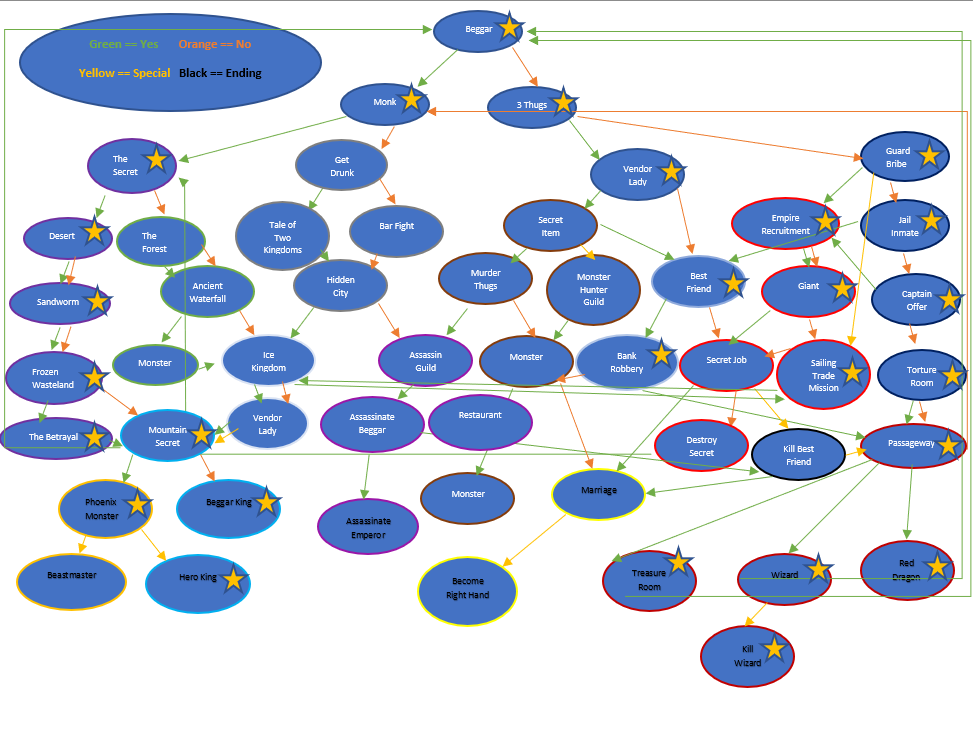
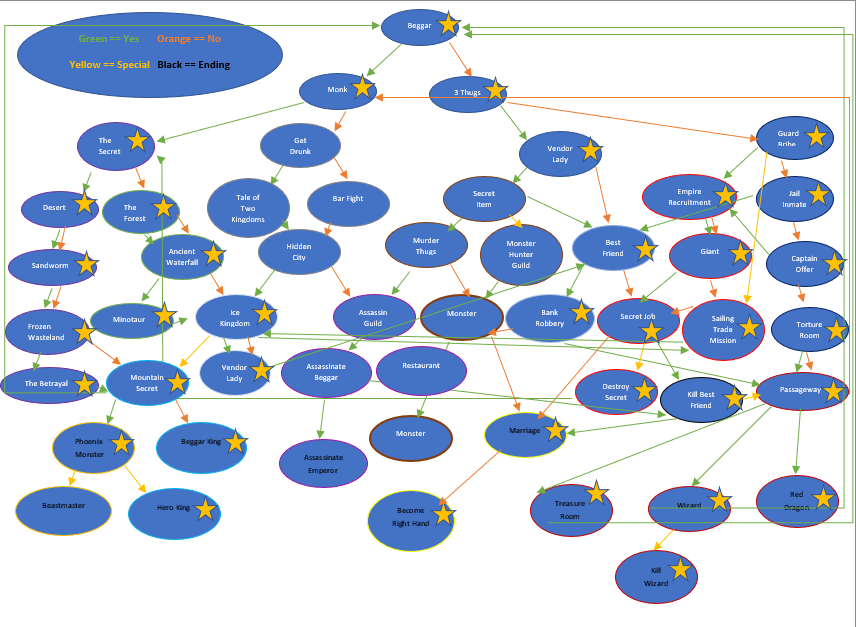
Added additional story scenarios

diff --git a/main.py b/main.py
@@ -110,6 +110,7 @@ def adventure_game():
         boxer = Monster('Boxer', 150, 60, 150)
         leviathan = Monster('Leviathan', 999, 99, 200)
         phoenix = Monster('Phoenix', 350, 90, 200)
+        minotaur = Monster('Minotaur', 150, 50, 85)
         
         # Function that 1. Checks if the monster has died, 2. Checks if person has died and then restarts/exits game
         def check_health(person):
@@ -540,10 +541,156 @@ jgs .-=-.    ) -.
                     input(
                         f'{bulletpoint2}The number you entered is not a valid item in the vendor\'s inventory. Please try again.')
                     show_vendor_menu()
+            #Ice Kingdom
+            def ice_kingdom():
+                input(f'{bulletpoint2}\nAfter many days of travel, you finally arrive at the gates of the ice kingdom.\nThe guard stops you and asks for your license to pass. Since you don\'t have one, the guard says she can let you through if you answer her riddle correctly...\n')
+                # List of riddles
+                riddles = [
+                    "\nI'm cold and white, and I'm found in the sky. I'm used for sports, and I'm thrown in the air. What am I?",
+                    "\nI'm cold and hard, and I sparkle and shine. I'm used to make ice, and I taste like wine. What am I?",
+                    "\nI'm cold and slippery, and I slide on the ground. I'm used for fun, and I make a funny sound. What am I?",
+                    "\nI'm cold and wet, and I come from a tap. I'm used to clean, and I'm good for a nap. What am I?",
+                    "\nI'm cold and frozen, and I hang from the sky. I'm used for drinks, and I make them cold and dry. What am I?",
+                    "\nI'm cold and frozen, and I'm found in a cave. I'm used for drinks, and I'm smooth on the tongue. What am I?",
+                    "\nI'm cold and crisp, and I'm good with a beer. I'm used to snack, and I'm salty and clear. What am I?",
+                    "\nI'm cold and strong, and I keep you safe at night. I'm used for defense, and I'm made of metal and light. What am I?",
+                    "\nI'm cold and soft, and I'm found on your head. I'm used for warmth, and I'm made of fur and thread. What am I?",
+                    "\nI'm cold and clear, and I'm frozen in time. I'm used for art, and I make things shine. What am I?"
+                ]
+
+                # List of answers
+                answers = [
+                    "Snowball",
+                    "Salt",
+                    "Sled",
+                    "Water",
+                    "Ice Cubes",
+                    "Ice Cream",
+                    "Pretzel",
+                    "Shield",
+                    "Hat",
+                    "Ice Sculpture"
+                ]
+
+                # Function to ask a random riddle and check the answer
+                def askRiddle():
+                    # Select a random riddle
+                    index = random.randint(0, len(riddles) - 1)
+                    riddle = riddles[index]
+                    answer = answers[index]
+
+                    # Ask the riddle and get the user's answer
+                    user_answer = input(f'{bulletpoint}Type "help" for a list of potential answers\n{riddle}\nWhat is your answer: ')
+
+                    # Check if the user's answer is correct
+                    if user_answer.lower() == answer.lower():
+                        print(f'{bulletpoint2}Correct! You may pass!')
+                        pass
+                    elif user_answer.lower() == 'help':
+                        print(f'{bulletpoint2}Potential Answers:')
+                        for i in answers:
+                            print(i)
+                        askRiddle()
+                    else:
+                        print(
+                            f'{bulletpoint2}Incorrect, you may not pass until you answer a riddle correctly.')
+                        askRiddle()
+                askRiddle()
+                input(f'\n{bulletpoint2}The ice kingdom is a breathtaking sight. The city is built of shining white marble and crystal, and it glows with a soft, ethereal light. The streets are filled with people of all shapes and sizes, all dressed in beautiful and colorful clothes.\nAs you walk through the city, you are amazed by the sights and sounds around you. You see snow-white horses pulling elegant carriages, and you hear the soothing melodies of harps and flutes. You feel a sense of peace and tranquility that you have never experienced before.\nYou decide to explore the city further and discover its hidden secrets. You visit the palace of the queen, who greets you with kindness and generosity. You learn about the history and culture of the ice kingdom, and you marvel at the wonders of its magical technology.')
+                go_sailing = input(f'\n{bulletpoint}You see an opportunity to hike a ride on a ship sailing over to the Red Dragon Empire, do you go?')
+                if go_sailing.strip().lower() in yes:
+                    menu()
+                    trade_mission()
+                else:
+                    pass
+                # Only accesses the vendor lady scenario if it's been turned on.
+                if vendor_lady_object == 1:
+                    vendor_lady()
+                else:
+                    input(f'\n{bulletpoint2}As you stand in the Ice Kingdom, you gaze upon the majestic high mountain next to it. The mountain is covered in snow and ice, and it towers above the surrounding landscape.\nYou feel a sudden urge to climb to the highest peak of the mountain. You have never done anything like this before, but you are excited by the challenge and the thrill of the climb.\nYou gather your gear and supplies, and you set off on your journey. You trudge through the snow, making your way up the mountain. The air is cold and thin, and you feel the strain on your body as you climb higher and higher.\nAs you reach the higher elevations, you encounter treacherous ice and snow. You must use your climbing skills and your determination to overcome these obstacles.\nFinally, after many hours of grueling climb, you reach the summit of the mountain. You are exhausted and exhilarated at the same time. You look out at the stunning view from the top of the mountain, and you feel a sense of accomplishment and pride.')
+                    mountain_secret()
+
+            # The Forest
+            def the_forest():
+                forest_ans = input(f'{bulletpoint}\nAs you travel through the mysterious forest, you are struck by its beauty and serenity. The trees are tall and majestic, and the air is fresh and clean. You feel a sense of peace and calm as you walk along the forest path.\nBut you also feel a sense of curiosity and wonder. The forest is filled with strange and exotic plants and animals, and you have never seen anything like them before. You are amazed by the diversity and beauty of the forest, and you cannot help but explore and learn more.\nSuddenly, you come across a fork in the path. One path leads to the left, and the other to the right. You are unsure which way to go, and you stop to think. If you choose to take the path on the left, you continue on your journey through the forest and pass by a pond. If you choose to take the path on the right, you pass through a cave. Do you choose the pond route?')
+                if forest_ans.lower().strip() in yes:
+                    input(f'{bulletpoint2}You come across a small pond, where you see a family of ducks swimming and playing. You are charmed by their playful antics, and you cannot help but watch them for a while. You eventually come across an ancient waterfall. You are struck by its beauty and majesty, and you cannot help but admire it for a while. You are grateful for the journey that brought you to this beautiful place.')
+                    menu()
+                else:
+                    damage = random.randint(3, 20)
+                    hero.health -= damage
+                    input(f'{bulletpoint2}You come across a dark and foreboding cave, and you feel a sense of danger and excitement. You decide to enter the cave, and you find yourself in a beautiful and hidden underground world. You are amazed by the beauty and wonder of this hidden place, and you cannot help but explore but you accidently trip and cut yourself and take {damage} damage to your health. You decide to get back on track and eventually come across an ancient waterfall. You are struck by its beauty and majesty, and you cannot help but admire it for a while. You are grateful for the journey that brought you to this beautiful place.')
+                    menu()
+                
+                # Ancient Waterfall
+                input(f'{bulletpoint2}The waterfall is breathtaking, with its powerful and majestic flow of water. You are drawn to the waterfall and you approach it with awe and wonder. As you get closer to the waterfall, you notice ancient markings on the rocks around it. The markings are faint and worn, but you can still make out the symbols and images of an ancient civilization.\nYou are intrigued by the ancient markings, and you decide to study and decipher them. You spend hours examining the markings and trying to understand their meaning.\nYou learn that the markings are the remnants of an ancient and advanced civilization that once existed in the forest. The civilization was wiped from existence by a great disaster, and only the markings on the rocks remain to tell its story.\nYou are filled with wonder and amazement by your discovery. You feel a sense of connection to the ancient civilization, and appreciate the opportunity to learn about its history and culture.')
+                waterfall_monster = input(f'{bulletpoint}you hear a deep and growling voice. You turn a corner, and you see a monstrous creature standing before you. It is a Minotaur, a creature with the body of a man and the head of a bull. The Minotaur roars at you, and charges towards you. You are terrified, but you also feel a sense of excitement and adrenaline. Do you fight this monster?')
+                if waterfall_monster.lower().strip() in yes:
+                    # Adds monster health if it has already been killed.
+                    add_health(minotaur)
+                    battle(hero, minotaur, 'lowers its head',
+                           'pants heavily', 'raises horns', 'charges with horns')
+                    random_health_gain = random.randint(10, 30)
+                    print(
+                        f'{bulletpoint2} You took some rest and gained {random_health_gain} health back.')
+                    hero.health += random_health_gain
+                    check_health(hero)
+                    add_money(50, 150)
+                    menu()
+                    input(f'\n{bulletpoint2}After a long and fierce battle, you finally manage to defeat the Minotaur. The creature falls to the ground, and you stand victorious. You are exhausted and battered, but you are also proud and triumphant.')
+                    input(f'\n{bulletpoint}As you leave the ancient waterfall, you continue on your journey through the forest. The sun is shining, and the birds are singing, and you feel a sense of joy and adventure.\nBut as you walk, you notice that the air is getting colder and colder. The trees are starting to look more and more frosted, and the ground is covered in snow. You realize that you are entering a new and different part of the forest.\nAs you continue on your journey, you see a vast and frozen landscape in front of you. The snow is deep and white, and the ice is sparkling and blue. You see tall and majestic mountains in the distance, and you feel a sense of awe and wonder.\nYou realize that you have entered the ice kingdom. You are amazed by the beauty and majesty of this frozen land, and you cannot help but explore and learn more.\nYou continue on your journey, marveling at the ice sculptures and frozen lakes. You see animals that you have never seen before, and you hear music and laughter from hidden villages.')
+                    ice_kingdom()
+                else:
+                    input(f'\n{bulletpoint}As you leave the ancient waterfall, you continue on your journey through the forest. The sun is shining, and the birds are singing, and you feel a sense of joy and adventure.\nBut as you walk, you notice that the air is getting colder and colder. The trees are starting to look more and more frosted, and the ground is covered in snow. You realize that you are entering a new and different part of the forest.\nAs you continue on your journey, you see a vast and frozen landscape in front of you. The snow is deep and white, and the ice is sparkling and blue. You see tall and majestic mountains in the distance, and you feel a sense of awe and wonder.\nYou realize that you have entered the ice kingdom. You are amazed by the beauty and majesty of this frozen land, and you cannot help but explore and learn more.\nYou continue on your journey, marveling at the ice sculptures and frozen lakes. You see animals that you have never seen before, and you hear music and laughter from hidden villages.')
+                    ice_kingdom()
+                
+            def the_marriage():
+                nonlocal current_heir
+                nonlocal new_rank
+                marriage_ans = input(f'\n{bulletpoint}As you walk down the castle hallway of the Red Dragon empire, you see a noble standing by a window, looking out at the sunset. You are immediately drawn to her beauty and grace. She turns to you and smiles, and you feel a spark of attraction.\nYou introduce yourself and think she is a noble from a nearby kingdom. You chat for a while, and you find yourself drawn to her intelligence and wit.\nAs the days pass, you spend more and more time together. You go for walks in the castle gardens, and share meals in the great hall. You find yourself falling more and more in love with her, and you know that she feels the same way.\nOne evening, as you sit by the fire in the great hall, She turns to you and says, "I have never felt this way about anyone before. I think I am falling in love with you."\nYou are overjoyed, and you know that you feel the same way. You take her hand... Do you decide to propose marriage to her?')
+                if marriage_ans.strip().lower() in yes:
+                    input(f'\n{bulletpoint2}You ask her if she will do you the honor of becoming your wife? She looks at you with tears in her eyes, and says, yes, she will marry you. And so, you become engaged, and begin planning for your future together. You know that no matter what challenges you face, you will face them together, as husband and wife. But little did you know, The noble was actually the Red Dragon emperor\'s daughter. You had fallen in love with the emperor\'s daughter without even realizing it. As you plan your future together, you must decide whether you are willing to marry into the royal family and face the challenges that come with it.')
+                    input(f'\n{bulletpoint2}the emperor asks you to marry his daughter, a beautiful and noble young woman. You are hesitant at first, but you are drawn to the princess and you decide to accept the emperor\'s offer.\nYou marry the princess in a grand and lavish ceremony, attended by the nobles and dignitaries of the empire. You are given a title and a position of power and influence in the empire, and you are now a respected and honored member of the royal family.\nAs the husband of the princess, you live a life of luxury and privilege. You are surrounded by wealth and beauty, and you have everything you could ever want. But you also face challenges and dangers. The nobles and courtiers of the empire are jealous and resentful of your position, and they plot and scheme against you. You must be careful and cautious, and always be on your guard.\n Despite the challenges, you are happy and content in your new life. You love your wife and you are grateful for the opportunities and experiences that the empire has given you. You vow to always protect and serve the empire and its people, and to make your marriage a success.')
+                    current_heir = hero_name.title()
+                    input(
+                        f'\n{bulletpoint2}Congratulations, on reaching the end! Try to discover other secret endings and possibilities...')
+                    menu()
+                    mysterious_monk()
+                else:
+                    input(f'\n{bulletpoint2}You become a skilled and accomplished warrior, and you earn the respect and admiration of the people of the empire. You become a favorite of the emperor, who rewards you with wealth and privilege.\nThe emperor is impressed by your skills and loyalty, and he offers you a position as his right-hand man. You are hesitant at first, but you decide to accept the emperor\'s offer.\nAs the right-hand man to the emperor, you are given a position of great power and influence in the empire. You are responsible for advising the emperor and carrying out his orders. You are also tasked with protecting the emperor and the empire from threats and dangers.\nYour new position is challenging and demanding, but also rewarding and fulfilling. You use your skills and knowledge to serve the emperor and the empire, and you are praised and rewarded for your efforts.\nHowever, you also face challenges and dangers. The nobles and courtiers of the empire are jealous and resentful of your position, and they plot and scheme against you. You must be careful and cautious, and always be on your guard.\nDespite the challenges, you are happy and content in your new life. You are proud to serve the emperor and the empire, and you are grateful for the opportunities and experiences that the empire has given you. You vow to always protect and serve the empire and its people, and to make your new position a success.')
+                    new_rank = ranks[-1]
+                    input(
+                        f'\n{bulletpoint2}\nCongratulations, on reaching the end! Try to discover other secret endings and possibilities...')
+                    menu()
+                    mysterious_monk()
+
+            def kill_best_friend():
+                input(f'\n{bulletpoint2}As you walk up to your best friend\'s house, you feel a heavy weight in your chest. You have never felt so torn in your life. On the one hand, you are loyal to the Red Dragon empire and you don\'t want to disappoint them. On the other hand, you cannot imagine a world without your best friend. You have known him for so long, and you have been through so much together.\nYou knock on the door, and your friend answers. He looks happy to see you, as always. But as you step inside, you know that you have to do what the empire has asked of you. You have to kill him.\nYou try to convince yourself that it is for the greater good, that the empire needs you to do this in order to maintain its power and control. But deep down, you know that it is wrong.\nAs you sit down in the living room and start to chat, you can feel your heart pounding in your chest. You know that you have to act fast, before you lose your nerve. You reach for your concealed knife, and before your friend knows what is happening, you plunge it into his chest.\nThe shock and betrayal on his face is something that you will never forget. You watch as the light in his eyes fades away, and you know that you have done the unthinkable. You have killed your best friend, and there is no going back.\nYou flee the scene, knowing that you have to report back to the empire and face the consequences of your actions. You have betrayed your friend and your own morals, and you know that you will have to live with that guilt for the rest of your life. ')
+                add_money(50, 200)
+                bf_ans = input(f'\n{bulletpoint}After the deed was done you travel into the castle to collect your earnings. You meet an attractive noble inside the castle hallway, but you also see a hidden entrance in the hallway. Do you decide to speak with the noble?')
+                if bf_ans.strip().lower() in yes:
+                    menu()
+                    the_marriage()
+                else:
+                    menu()
+                    passageway()
 
             def secret_job():
-                input(
-                    f'{bulletpoint2}A hooded man approached you and said the empire needs your skills in handling a special task. ')
+                kill_friend_ans = input(
+                    f'\n{bulletpoint}You are standing in front of the Red Dragon Empire\'s palace, staring at the imposing stone walls and the flags fluttering in the wind. Suddenly, a hooded messenger approaches you and hands you a scroll. The Red Dragon Empire has asked you to kill your best friend. You are horrified by the empire\'s request. You cannot imagine a world without your best friend. Do you kill your best friend?')
+                if kill_friend_ans.strip().lower() in yes:
+                    menu()
+                    kill_best_friend()
+                else:
+                    marriage_ans = input(f'\n{bulletpoint}The hooded messenger says very well, The empire has offered you an alternative. If you agree to marry one of the empire\'s nobles, your friend will be spared. You are torn by the decision. On the one hand, you do not want to marry someone you do not love. On the other hand, you cannot bear the thought of losing your best friend. Do you decide to get married to this noble?')
+                    if marriage_ans.strip().lower() in yes:
+                        input(f'\n{bulletpoint2}\nAfter much contemplation, you decide that your friendship is more important than your own happiness. You agree to marry the noble and save your best friend\'s life.')
+                        menu()
+                        the_marriage()
+                    else:
+                        input(f'\n{bulletpoint2}So you don\'t want to kill your best friend and you don\'t want to marry a noble. The empire has instead forced you to go on a task to destroy a mysterious secret. The hooded messenger has guards escort you in a cart. You look next to you and see a mysterious monk as one of the passengers who is joining you on this task.')
+                        menu()
+                        the_secret()
 
             # The Trade Mission
             def trade_mission():
@@ -587,7 +734,7 @@ jgs .-=-.    ) -.
   ⛆⛆⛆⛆⛆⛆🗲⛆⛆⛆    ⛆⛆⛆⛆🗲⛆⛆⛆⛆     ⛆⛆⛆⛆🗲⛆ ⛆⛆⛆⛆ '''
 
                 ship_castle = '              🌳🌳⛰⛰⛰🏰⛰⛰⛰🌳🌳                    '
-                ice_castle = '              🎄🎄⛰⛰⛰🏰⛰⛰⛰🎄🎄                    '
+                snow_castle = '              🎄🎄⛰⛰⛰🏰⛰⛰⛰🎄🎄                    '
                 ship_island = '🌊🌊🌊🌊🌊🌊🌊🌊🏝🏝🏝🏝🏝🌊🌊🌊🌊🌊🌊🌊🌊🌊🌊🌊🌊'
                 ship_trees = '🌊🌊🌊🌊🌊🌊🌊🌊🌳🌳🌳🌳🌳🌳🌊🌊🌊🌊🌊🌊🌊🌊🌊'
                 xmas_trees = '🌊🌊🌊🌊🌊🌊🌊🌊🎄🎄🎄🎄🎄🌊🌊🌊🌊🌊🌊🌊🌊🌊'
@@ -642,9 +789,9 @@ jgs .-=-.    ) -.
                 sea_start = [clouds1, ' '*36 + '༌ ⭒༌', ship_castle, ship_trees, ship_boat,
                             ship_ocean, ship_ocean, ship_ocean]
 
-                ice_castle = [night4, ' '*20 + '༌ ⭒༌', ice_castle, xmas_trees, ship_boat,
+                ice_castle = [night4, ' '*20 + '༌ ⭒༌', snow_castle, xmas_trees, ship_boat,
                             ship_ocean, ship_ocean, ship_ocean]
-                ship_surf = [night4, ' '*20 + '༌ ⭒༌', ice_castle, xmas_trees, ship_surf,
+                ship_surf = [night4, ' '*20 + '༌ ⭒༌', snow_castle, xmas_trees, ship_surf,
                             ship_ocean, ship_ocean, ship_ocean]
 
                 sea_top_left = [clouds2, ' '*34 + '༌ ⭒༌', ship_boat, ship_fish,
@@ -756,7 +903,7 @@ jgs .-=-.    ) -.
                 new_requirement = random.choice(trade_requirements)
                 new_requirement2 = random.choice(trade_requirements)
                 input(
-                    f'{bulletpoint2}You stop by the trade port near the shipyard. The empire needs one of each of these two items ({new_requirement} and {new_requirement2}). If you can acquire them on your journey, you shall be awarded. Note that these items may change due to demand, so it\'s best to stock up on local items.')
+                    f'{bulletpoint2}You stop by the trade port near the shipyard. The trader needs one of each of these two items ({new_requirement} and {new_requirement2}). If you can acquire them on your journey, you shall be awarded. Note that these items may change due to demand, so it\'s best to stock up on local items.')
                 if hero_land_items[new_requirement] > 0 and hero_land_items[new_requirement2] > 0: # Checks if hero's land item stock is more than 0 for the two item requirements.
                     hand_item = input(
                         f'{bulletpoint}It looks like you already have these items in your inventory! Would you like to hand them over?')
@@ -767,14 +914,16 @@ jgs .-=-.    ) -.
                             f'{bulletpoint2}You\'ve made the trade successfully!')
                         input(
                             f'{bulletpoint2}{hero_name}\'s Current Trade Items Held: {hero_land_items}')
-                        input(f'{bulletpoint2}The empire thanks you for your service.')
+                        input(f'{bulletpoint2}The trader thanks you for your help and gives you a nice chunk of change!')
+                        add_money(200, 600)
                     else:
                         pass
                 set_sail = input(f'{bulletpoint}Would you like to set sail?')
                 if set_sail.strip().lower() in yes:
                     pass
                 else:
-                    print(f'You decided instead to do...')
+                    input(f'{bulletpoint2}As you leave the bustling trade port and set off on the road back home, you feel a sense of relief and excitement. You have been away for many weeks, and you are eager to see your loved ones again. As you travel down the road, you notice a beggar sitting on the side of the road.')
+                    beggar()
 
                 # The below code displays a ship for the player to travel between two different kingdoms.
                 while anchor:
@@ -810,7 +959,7 @@ jgs .-=-.    ) -.
                                 print(
                                     f'{bulletpoint2}You reached the destination!')
                                 anchor = False
-                                trade_mission()
+                                beggar()
                             else:
                                 current_position = sea_dark
                         elif current_position == sea_top_left: # Current position is the current scene.
@@ -1016,6 +1165,7 @@ jgs .-=-.    ) -.
                                     f'{bulletpoint2}You reached the destination!')
                                 anchor = False # Ends the while loop
                                 add_health(leviathan) # Resets leviathan monster health if it has already been killed
+                                ice_kingdom()
                             elif command == 'south':
                                 current_position = sea_left_8
                             else:
@@ -1083,8 +1233,8 @@ jgs .-=-.    ) -.
                 nonlocal new_rank
                 # list of random ranks that can be offered to the player.
                 ranks = [
-                    'Stable sweep', 'Swordsman', 'Axeman', 'Spearman', 'Archer', 'Cavalry',
-                    'Lieutenant', 'Captain', 'Knight', 'Commander', 'Baron', 'Viscount', 'Earl', 'Marquis', 'Duke'
+                    'Stable sweep', 'Swordsman', 'Axeman', 'Spearman', 'Archer', 'Cavalry', 'Lieutenant', 'Captain', 
+                    'Knight', 'Commander', 'Baron', 'Viscount', 'Earl', 'Marquis', 'Duke', 'Right Hand'
                 ]
                 empire_recruitment_ans = input(f'\n{bulletpoint} An old guard walks up to you and says they\'re seeking out some new blood into their ranks. Would you be interested in joining the Red Dragon Military?')
                 if new_rank in ranks: # Checks if the player already has a rank in the ranks list.
@@ -1158,6 +1308,7 @@ jgs .-=-.    ) -.
                     check_health(hero)
                     add_money(50, 200)
                     menu()
+                    secret_job()
 
                 else:
                     input(f'\n{bulletpoint2}You decided to prove your loyalty instead by taking on an imperial trade assignment and sail the seas. You were tasked with a mission to locate Sea Storm Island in the west and trade some imperial goods. The emperor will also be joining on the trip so it\'s best to showcase your ability to navigate the seas!')
@@ -1173,8 +1324,7 @@ jgs .-=-.    ) -.
                     menu()
                 else:
                     print('You decided to take the forest route.')
-                    pass
-                    #the_forest()
+                    the_forest()
 
             # Sand Monster Battle
                 add_health(sandworm) # Adds monster health if it has already been killed.
@@ -2160,7 +2310,7 @@ _,'    \_>\_/    ',_
                     maze()
                     
                 else:
-                    input(f'\n{bulletpoint2}You walk along the streets to find a job, but no one you encountered would hire someone with a missing {body_part}. You then come across a mysterious monk.')
+                    input(f'\n{bulletpoint2}You walk along the streets to find a job, but no one you encountered would hire you. You then come across a mysterious monk.')
                     menu()
                     mysterious_monk()
 
@@ -2223,24 +2373,24 @@ _,'    \_>\_/    ',_
                                     print(
                                         f'{bulletpoint2}You were so close! Your best friend says you can think about this job another time.')
                                     menu()
-                                    # Add The secret() or this will lead back to the vendor menu
+                                    secret_job()
                             else:
                                 print(
                                     f'{bulletpoint2}Nice try! Your best friend says you can think about this job another time.')
                                 menu()
-                                # Add The secret() or this will lead back to the vendor menu
+                                secret_job()
                         else:
                             print(f'{bulletpoint2}Perhaps listen carefully! Your best friend says you can think about this job another time.')
                             menu()
-                            # Add The secret() or this will lead back to the vendor menu
+                            secret_job()
                     else:
                         print(f'{bulletpoint2}You\'re not listening! Your best friend says you can think about this job another time.')
                         menu()
-                        # Add The secret() or this will lead back to the vendor menu
+                        secret_job()
                 else:
                     input(f'\n{bulletpoint2}Perhaps next time then. Your best friend says it\'s getting late and we should leave before the nightwolves start roaming the streets. As you leave a hooded person with an insignia of the red dragon empire grabbed you in the darkness... ')
                     menu()
-                    # Add The secret() or this will lead back to the vendor_lady
+                    secret_job()
 
             # Vendor Lady
             def vendor_lady():

diff --git a/tempCodeRunnerFile.py b/tempCodeRunnerFile.py
@@ -1,0 +1,1 @@
+print(f'You decided instead to do...')
